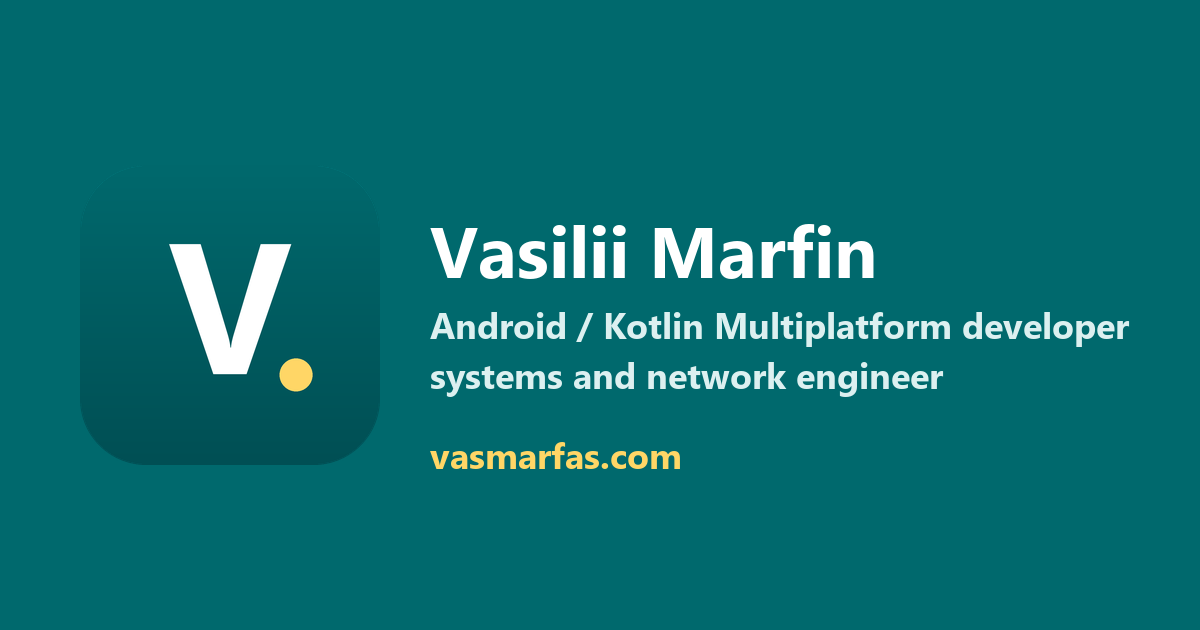
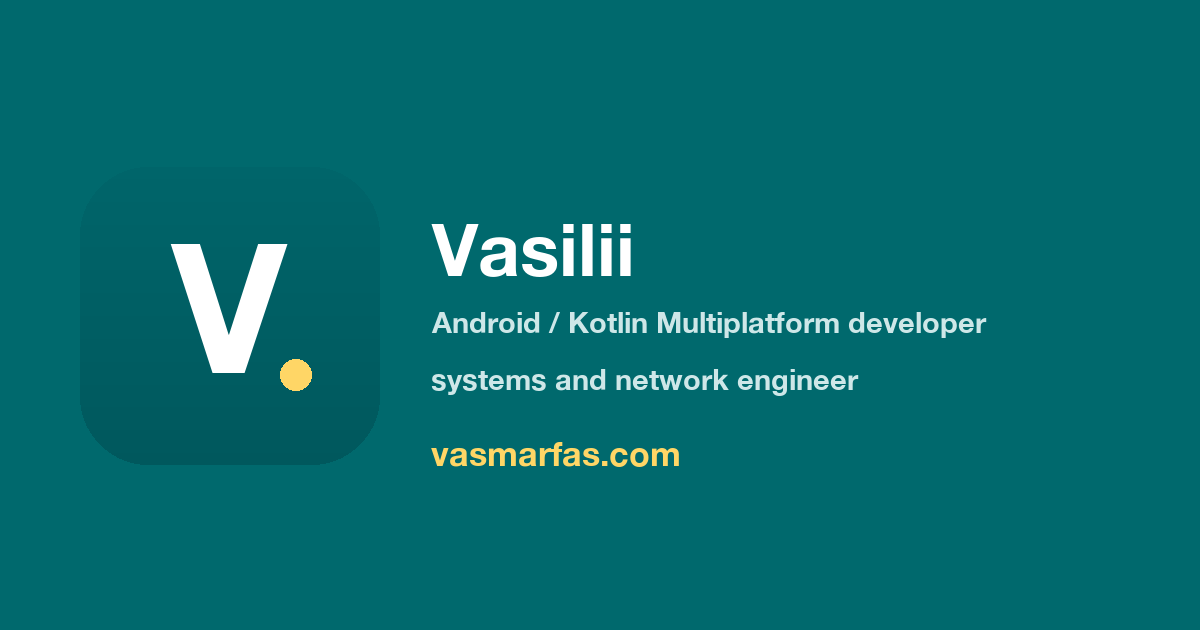
Fix the macOS package version, drop the surname from the OG image
jpackage refuses a zero major version, so the default is 1.0.0 now. The profile text
is shorter and the download page no longer calls the source open.

diff --git a/webApp/src/wasmJsMain/resources/index.html b/webApp/src/wasmJsMain/resources/index.html
@@ -3,8 +3,8 @@
 <head>
     <meta charset="UTF-8">
     <meta name="viewport" content="width=device-width, initial-scale=1.0, viewport-fit=cover">
-    <title>vasmarfas — личный сайт и бесплатный мультитул на 151 инструментов</title>
-    <meta name="description" content="Личный сайт Василия (vasmarfas) и бесплатный мультитул: 151 инструментов для сети, расчётов, текста, разработки и датчиков. Без рекламы и регистрации.">
+    <title>vasmarfas — личный сайт и бесплатный мультитул на 151 инструмент</title>
+    <meta name="description" content="Личный сайт Василия (vasmarfas) и бесплатный мультитул: 151 инструмент для сети, расчётов, текста, разработки и датчиков. Без рекламы и регистрации.">
     <meta name="keywords" content="vasmarfas, мультитул, сетевые инструменты, калькулятор подсетей, пинг, трассировка, DNS, конвертер единиц, Android developer, Kotlin Multiplatform">
     <meta name="author" content="vasmarfas">
     <meta name="theme-color" content="#f6fafa" media="(prefers-color-scheme: light)">
@@ -20,7 +20,7 @@
     <link rel="manifest" href="manifest.webmanifest">
     <meta property="og:type" content="website">
     <meta property="og:title" content="vasmarfas — личный сайт и бесплатный мультитул">
-    <meta property="og:description" content="151 инструментов в 13 категориях: сеть, конвертеры, калькуляторы, текст, разработчику, безопасность, цвет, время, датчики, быт, 3D-печать, спорт. Плюс проекты, резюме и статьи.">
+    <meta property="og:description" content="151 инструмент в 13 категориях: сеть, конвертеры, калькуляторы, текст, разработчику, безопасность, цвет, время, датчики, быт, 3D-печать, спорт. Плюс проекты, резюме и статьи.">
     <meta property="og:url" content="https://vasmarfas.com/">
     <meta property="og:image" content="https://vasmarfas.com/og-image.png">
     <meta property="og:image:width" content="1200">
@@ -31,7 +31,7 @@
     <meta property="og:locale:alternate" content="en_US">
     <meta name="twitter:card" content="summary_large_image">
     <meta name="twitter:title" content="vasmarfas — личный сайт и бесплатный мультитул">
-    <meta name="twitter:description" content="151 инструментов в 13 категориях: сеть, конвертеры, калькуляторы, текст, разработчику, безопасность, цвет, время, датчики, быт, 3D-печать, спорт.">
+    <meta name="twitter:description" content="151 инструмент в 13 категориях: сеть, конвертеры, калькуляторы, текст, разработчику, безопасность, цвет, время, датчики, быт, 3D-печать, спорт.">
     <meta name="twitter:image" content="https://vasmarfas.com/og-image.png">
     <link rel="preload" href="app.js" as="script">
     <link rel="stylesheet" href="styles.css">
@@ -75,7 +75,7 @@
           "image": "https://vasmarfas.com/og-image.png",
           "inLanguage": ["ru", "en"],
           "isAccessibleForFree": true,
-          "description": "Бесплатный мультитул: 151 инструментов в 13 категориях. Расчёты идут на устройстве, рекламы и регистрации нет.",
+          "description": "Бесплатный мультитул: 151 инструмент в 13 категориях. Расчёты идут на устройстве, рекламы и регистрации нет.",
           "featureList": [
             "Сеть",
             "Конвертеры",
@@ -180,7 +180,7 @@
         </div>
         <div class="splash-progress" aria-hidden="true"><div class="splash-bar"></div></div>
         <p class="splash-note" id="splash-note">Загружаю приложение…</p>
-        <p class="splash-about">Личный сайт: проекты, резюме и статьи. И бесплатный мультитул: 151 инструментов, которые считают прямо в браузере, без рекламы и без регистрации. Приложение с тем же набором есть для Android, iOS, Windows, macOS и Linux.</p>
+        <p class="splash-about">Личный сайт: проекты, резюме и статьи. И бесплатный мультитул — 151 инструмент, всё считается прямо в браузере, без рекламы и регистрации. Тот же набор есть приложением для Android, iOS, Windows, macOS и Linux.</p>
         <p class="splash-cats">Категории инструментов: сеть (пинг, трассировка, сканер портов и сети, DNS, whois, калькулятор подсетей), конвертеры, калькуляторы, текст, разработчику (JSON, Base64, JWT, регулярные выражения, cron), безопасность, цвет и дизайн, время, измерения и датчики (компас, уровень, шумомер, линейка), устройство, быт, 3D-печать, спорт и здоровье.</p>
         <noscript><p class="splash-note">Сайт работает как приложение на WebAssembly и требует включённого JavaScript. Список магазинов и файлов установки открывается без него: <a href="download.html">страница загрузки</a>.</p></noscript>
     </div>

diff --git a/shared/src/iosMain/kotlin/com/vasmarfas/card/core/NetworkOps.ios.kt b/shared/src/iosMain/kotlin/com/vasmarfas/card/core/NetworkOps.ios.kt
@@ -29,24 +29,35 @@ import platform.darwin.ifaddrs
 import platform.posix.AF_INET
 import platform.posix.AF_INET6
 import platform.posix.AF_UNSPEC
+import platform.posix.EINPROGRESS
+import platform.posix.F_GETFL
+import platform.posix.F_SETFL
 import platform.posix.IPPROTO_ICMP
 import platform.posix.IPPROTO_IP
 import platform.posix.IP_TTL
 import platform.posix.NI_MAXHOST
 import platform.posix.NI_NAMEREQD
 import platform.posix.NI_NUMERICHOST
+import platform.posix.O_NONBLOCK
+import platform.posix.POLLOUT
 import platform.posix.SOCK_DGRAM
 import platform.posix.SOCK_STREAM
 import platform.posix.SOL_SOCKET
 import platform.posix.SO_BROADCAST
+import platform.posix.SO_ERROR
 import platform.posix.SO_RCVTIMEO
 import platform.posix.addrinfo
 import platform.posix.close
 import platform.posix.connect
+import platform.posix.errno
+import platform.posix.fcntl
 import platform.posix.freeaddrinfo
 import platform.posix.getaddrinfo
 import platform.posix.getnameinfo
 import platform.posix.getpid
+import platform.posix.getsockopt
+import platform.posix.poll
+import platform.posix.pollfd
 import platform.posix.recv
 import platform.posix.recvfrom
 import platform.posix.send
@@ -56,6 +67,7 @@ import platform.posix.sockaddr
 import platform.posix.sockaddr_in
 import platform.posix.sockaddr_storage
 import platform.posix.socket
+import platform.posix.socklen_t
 import platform.posix.socklen_tVar
 import platform.posix.timeval
 
@@ -92,6 +104,32 @@ private fun setTimeout(descriptor: Int, timeoutMs: Int) {
         tv.tv_usec = ((timeoutMs % 1000) * 1000).convert()
         setsockopt(descriptor, SOL_SOCKET, SO_RCVTIMEO, tv.ptr, sizeOf<timeval>().convert())
     }
+}
+
+// SO_RCVTIMEO only governs recv, so a blocking connect() ignores timeoutMs and runs to the
+// kernel's own TCP timeout; O_NONBLOCK plus poll() makes the deadline real, and the original
+// flags go back so the caller's later recv() still honours SO_RCVTIMEO
+@OptIn(ExperimentalForeignApi::class)
+private fun connectWithin(descriptor: Int, address: CPointer<sockaddr>?, length: socklen_t, timeoutMs: Int): Boolean {
+    val flags = fcntl(descriptor, F_GETFL, 0)
+    if (flags < 0 || fcntl(descriptor, F_SETFL, flags or O_NONBLOCK) < 0) return false
+    val connected = when {
+        connect(descriptor, address, length) == 0 -> true
+        errno != EINPROGRESS -> false
+        else -> memScoped {
+            val fds = alloc<pollfd>()
+            fds.fd = descriptor
+            fds.events = POLLOUT.convert()
+            fds.revents = 0
+            if (poll(fds.ptr, 1.convert(), timeoutMs) <= 0) return@memScoped false
+            val error = alloc<IntVar>()
+            val size = alloc<socklen_tVar>()
+            size.value = sizeOf<IntVar>().convert()
+            getsockopt(descriptor, SOL_SOCKET, SO_ERROR, error.ptr, size.ptr) == 0 && error.value == 0
+        }
+    }
+    fcntl(descriptor, F_SETFL, flags)
+    return connected
 }
 
 private const val ICMP_ECHO_REPLY = 0
@@ -231,8 +269,9 @@ actual suspend fun tcpConnect(host: String, port: Int, timeoutMs: Int): Long? = 
         val descriptor = socket(info.pointed.ai_family, info.pointed.ai_socktype, info.pointed.ai_protocol)
         if (descriptor >= 0) {
             setTimeout(descriptor, timeoutMs)
-            val connected = connect(descriptor, info.pointed.ai_addr, info.pointed.ai_addrlen)
-            if (connected == 0) result = currentEpochMillis() - started
+            if (connectWithin(descriptor, info.pointed.ai_addr, info.pointed.ai_addrlen, timeoutMs)) {
+                result = currentEpochMillis() - started
+            }
             close(descriptor)
         }
     }
@@ -353,7 +392,7 @@ actual suspend fun whoisQuery(server: String, query: String, timeoutMs: Int): St
         val descriptor = socket(info.pointed.ai_family, info.pointed.ai_socktype, info.pointed.ai_protocol)
         if (descriptor >= 0) {
             setTimeout(descriptor, timeoutMs)
-            if (connect(descriptor, info.pointed.ai_addr, info.pointed.ai_addrlen) == 0) {
+            if (connectWithin(descriptor, info.pointed.ai_addr, info.pointed.ai_addrlen, timeoutMs)) {
                 val request = (query + "\r\n").encodeToByteArray()
                 send(descriptor, request.refTo(0), request.size.convert(), 0)
                 val builder = StringBuilder()

diff --git a/webApp/src/wasmJsMain/resources/download.html b/webApp/src/wasmJsMain/resources/download.html
@@ -440,7 +440,7 @@
 
     <header>
         <h1 data-en="Get vasmarfas Toolbox">Скачать vasmarfas Toolbox</h1>
-        <p class="lead" data-en="151 tools in 13 categories: network, converters, calculators, text, developer, security, colour and design, time, measure and sensors, device, everyday, 3D printing, sport and health. Plus a personal page in the same app.">151 инструментов в 13 категориях: сеть, конвертеры, калькуляторы, текст, разработчику, безопасность, цвет и дизайн, время, измерения и датчики, устройство, быт, 3D-печать, спорт и здоровье. Плюс личная страница в том же приложении.</p>
+        <p class="lead" data-en="151 tools in 13 categories: network, converters, calculators, text, developer, security, colour and design, time, measure and sensors, device, everyday, 3D printing, sport and health. Plus a personal page in the same app.">151 инструмент в 13 категориях: сеть, конвертеры, калькуляторы, текст, разработчику, безопасность, цвет и дизайн, время, измерения и датчики, устройство, быт, 3D-печать, спорт и здоровье. Плюс личная страница в том же приложении.</p>
         <p class="lead-sub" data-en="One codebase for Android, iOS, Windows, macOS, Linux and the browser. No ads, no account, calculations run on the device.">Одна сборка на Android, iOS, Windows, macOS, Linux и браузер. Без рекламы, без регистрации, расчёты идут на устройстве.</p>
     </header>
 
@@ -592,7 +592,7 @@
             <a href="https://t.me/vasmarfas">Telegram</a>
             <a href="mailto:admin@vasmarfas.com" data-show-address>admin@vasmarfas.com</a>
         </div>
-        <p data-en="vasmarfas Toolbox is free and has no ads. Source code is public under a noncommercial license.">vasmarfas Toolbox бесплатный и без рекламы. Исходный код открыт под некоммерческой лицензией.</p>
+        <p data-en="vasmarfas Toolbox is free and has no ads. Source code is public under a noncommercial license.">vasmarfas Toolbox бесплатный и без рекламы. Исходный код опубликован под некоммерческой лицензией.</p>
     </footer>
 </div>
 

diff --git a/shared/src/commonMain/kotlin/com/vasmarfas/card/tools/text/CaseConvert.kt b/shared/src/commonMain/kotlin/com/vasmarfas/card/tools/text/CaseConvert.kt
@@ -9,7 +9,8 @@ enum class TextCase(val title: StringResource) {
     TITLE(Res.string.title_case),
     SENTENCE(Res.string.sentence_case),
     CAMEL(Res.string.camelcase),
-    PASCAL(Res.string.pascalcase),
+    // not PASCAL: the Objective-C export would be `pascal`, a clang calling-convention keyword
+    PASCAL_CASE(Res.string.pascalcase),
     SNAKE(Res.string.snake_case),
     SCREAMING_SNAKE(Res.string.screaming_snake_case),
     KEBAB(Res.string.kebab_case),
@@ -52,7 +53,7 @@ object CaseConvert {
         TextCase.TITLE -> title(text)
         TextCase.SENTENCE -> sentence(text)
         TextCase.CAMEL -> words(text).mapIndexed { i, w -> if (i == 0) w.lowercase() else capitalize(w) }.joinToString("")
-        TextCase.PASCAL -> words(text).joinToString("") { capitalize(it) }
+        TextCase.PASCAL_CASE -> words(text).joinToString("") { capitalize(it) }
         TextCase.SNAKE -> words(text).joinToString("_") { it.lowercase() }
         TextCase.SCREAMING_SNAKE -> words(text).joinToString("_") { it.uppercase() }
         TextCase.KEBAB -> words(text).joinToString("-") { it.lowercase() }

diff --git a/shared/src/commonTest/kotlin/com/vasmarfas/card/tools/text/TextLogicTest.kt b/shared/src/commonTest/kotlin/com/vasmarfas/card/tools/text/TextLogicTest.kt
@@ -16,7 +16,7 @@ class CaseConvertTest {
     @Test
     fun convertsLatin() {
         assertEquals("helloWorld", CaseConvert.convert("hello world", TextCase.CAMEL))
-        assertEquals("HelloWorld", CaseConvert.convert("hello world", TextCase.PASCAL))
+        assertEquals("HelloWorld", CaseConvert.convert("hello world", TextCase.PASCAL_CASE))
         assertEquals("hello_world", CaseConvert.convert("helloWorld", TextCase.SNAKE))
         assertEquals("HELLO_WORLD", CaseConvert.convert("hello world", TextCase.SCREAMING_SNAKE))
         assertEquals("hello-world", CaseConvert.convert("Hello World", TextCase.KEBAB))

diff --git a/shared/src/commonMain/kotlin/com/vasmarfas/card/tools/converters/Units.kt b/shared/src/commonMain/kotlin/com/vasmarfas/card/tools/converters/Units.kt
@@ -118,7 +118,7 @@ enum class UnitCategory(val title: StringResource, val units: List<ConvUnit>) {
         listOf(
             ConvUnit("bar", Res.string.bar, "bar", 1e5),
             ConvUnit("psi", Res.string.pound_per_square_inch, "psi", 6894.757293168),
-            ConvUnit("pa", Res.string.pascal, "Pa", 1.0),
+            ConvUnit("pa", Res.string.pascal_unit, "Pa", 1.0),
             ConvUnit("kpa", Res.string.kilopascal, "kPa", 1e3),
             ConvUnit("mpa", Res.string.megapascal, "MPa", 1e6),
             ConvUnit("mbar", Res.string.millibar, "mbar", 100.0),
